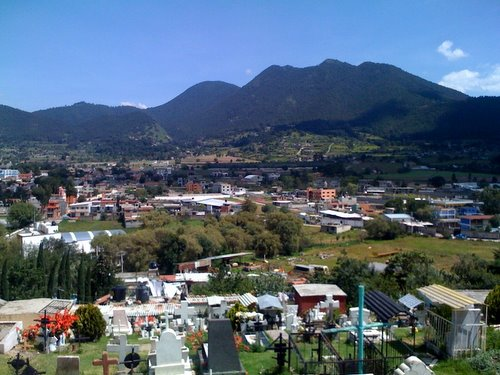
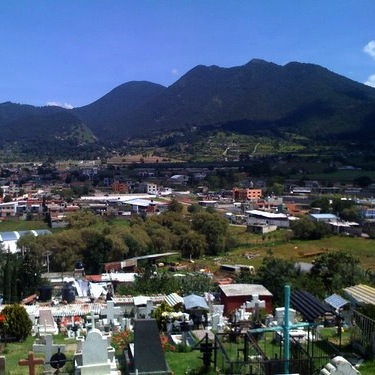
foto pueblo

diff --git a/desa/index.html b/desa/index.html
@@ -405,7 +405,7 @@
 			<div class="col col-md-4">
 				<div class="row">
 					<div class="col col-sm-12">
-						<img class="foto-thumbnail img-responsive img-circle center-block" src="img/pueblo.jpg" alt="Generic placeholder image">
+						<img class="foto-thumbnail img-responsive img-circle center-block" src="img/pueblo2.jpg" alt="Generic placeholder image">
 					</div>
 					<!--
 					<div class="btn btn-primary btn-xs pull-right">Compartir
